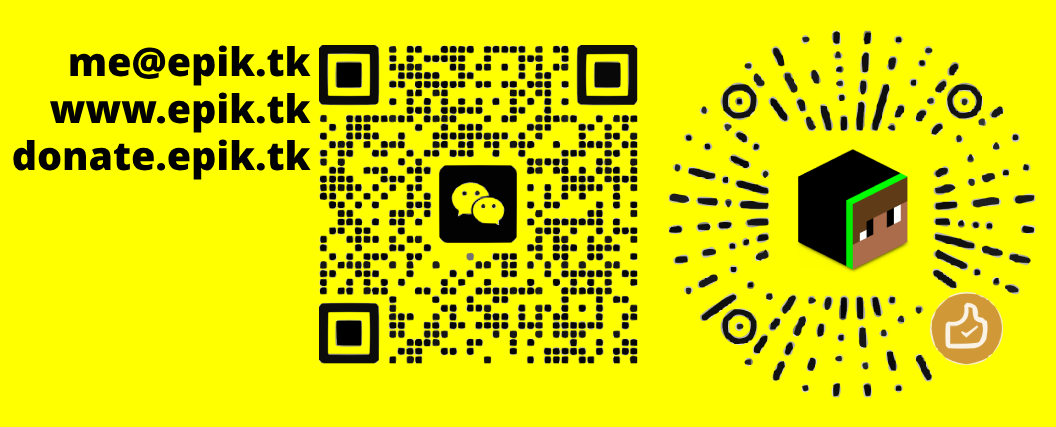
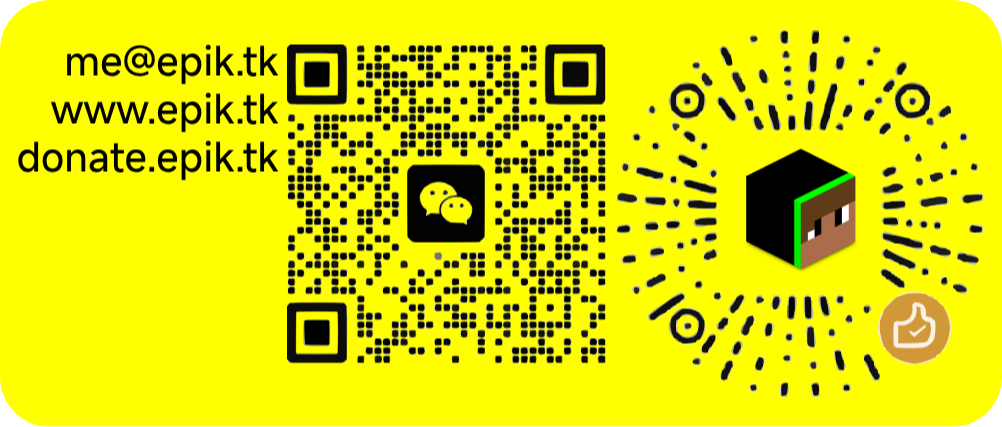
v2

diff --git a/README.md b/README.md
@@ -15,4 +15,4 @@ Here are some ideas to get you started:
 - ⚡ Fun fact: ...
 -->
 
-![Alt text](banner.png)
+[![EpickyHrac](banner.png)](https://epik.tk/?ref=github-repo-banner)
